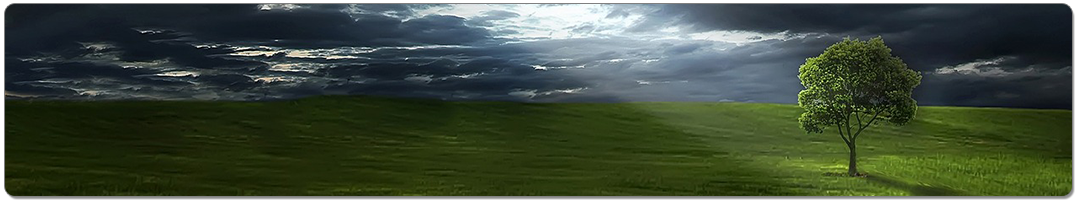
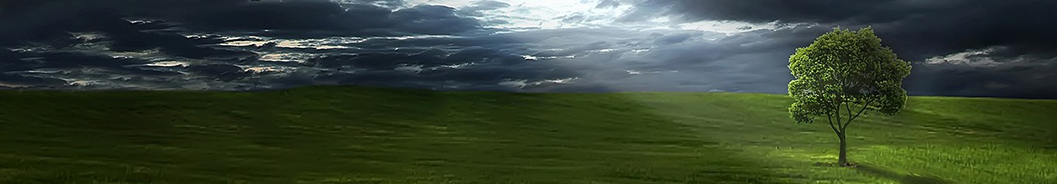
changed img to match

diff --git a/index.html b/index.html
@@ -203,7 +203,7 @@
                     <p>A Concrete Shell is manufactured at your site. We spend more time up front on blueprints and assembly drawings which allows us to complete projects faster and at a higher level of quality. Our concrete shells are built to stand the test of time and will look stunning for years to come with minimal upkeep. Our prices are comparable to wood framing, but with much more value added.</p>
                 </div>
                 <div id="tab-menu1" class="tab-pane">
-                    <img class="img-fluid lazyload" data-src="/images/high-tech2.png" alt="high-tech2">
+                    <img class="img-fluid lazyload" data-src="/images/high-tech2.png" alt="high-tech2" style="border: 1px solid gray; border-radius: 12.5px;">
                     <p>A Concrete Shell keeps occupants and assets safe. The unyielding power of mother nature has met its match! Our Concrete Shells are highly resistant to earthquakes, fire, floods, hurricanes, and tornadoes. Should natural disaster strike, these buildings are likely to suffer cosmetic damage only. A Concrete Shell creates tranquil space. The sheer mass of the concrete is able to block out most external noise and keep the internal temperature constant.</p>
                 </div>
                 <div id="tab-menu2" class="tab-pane">
